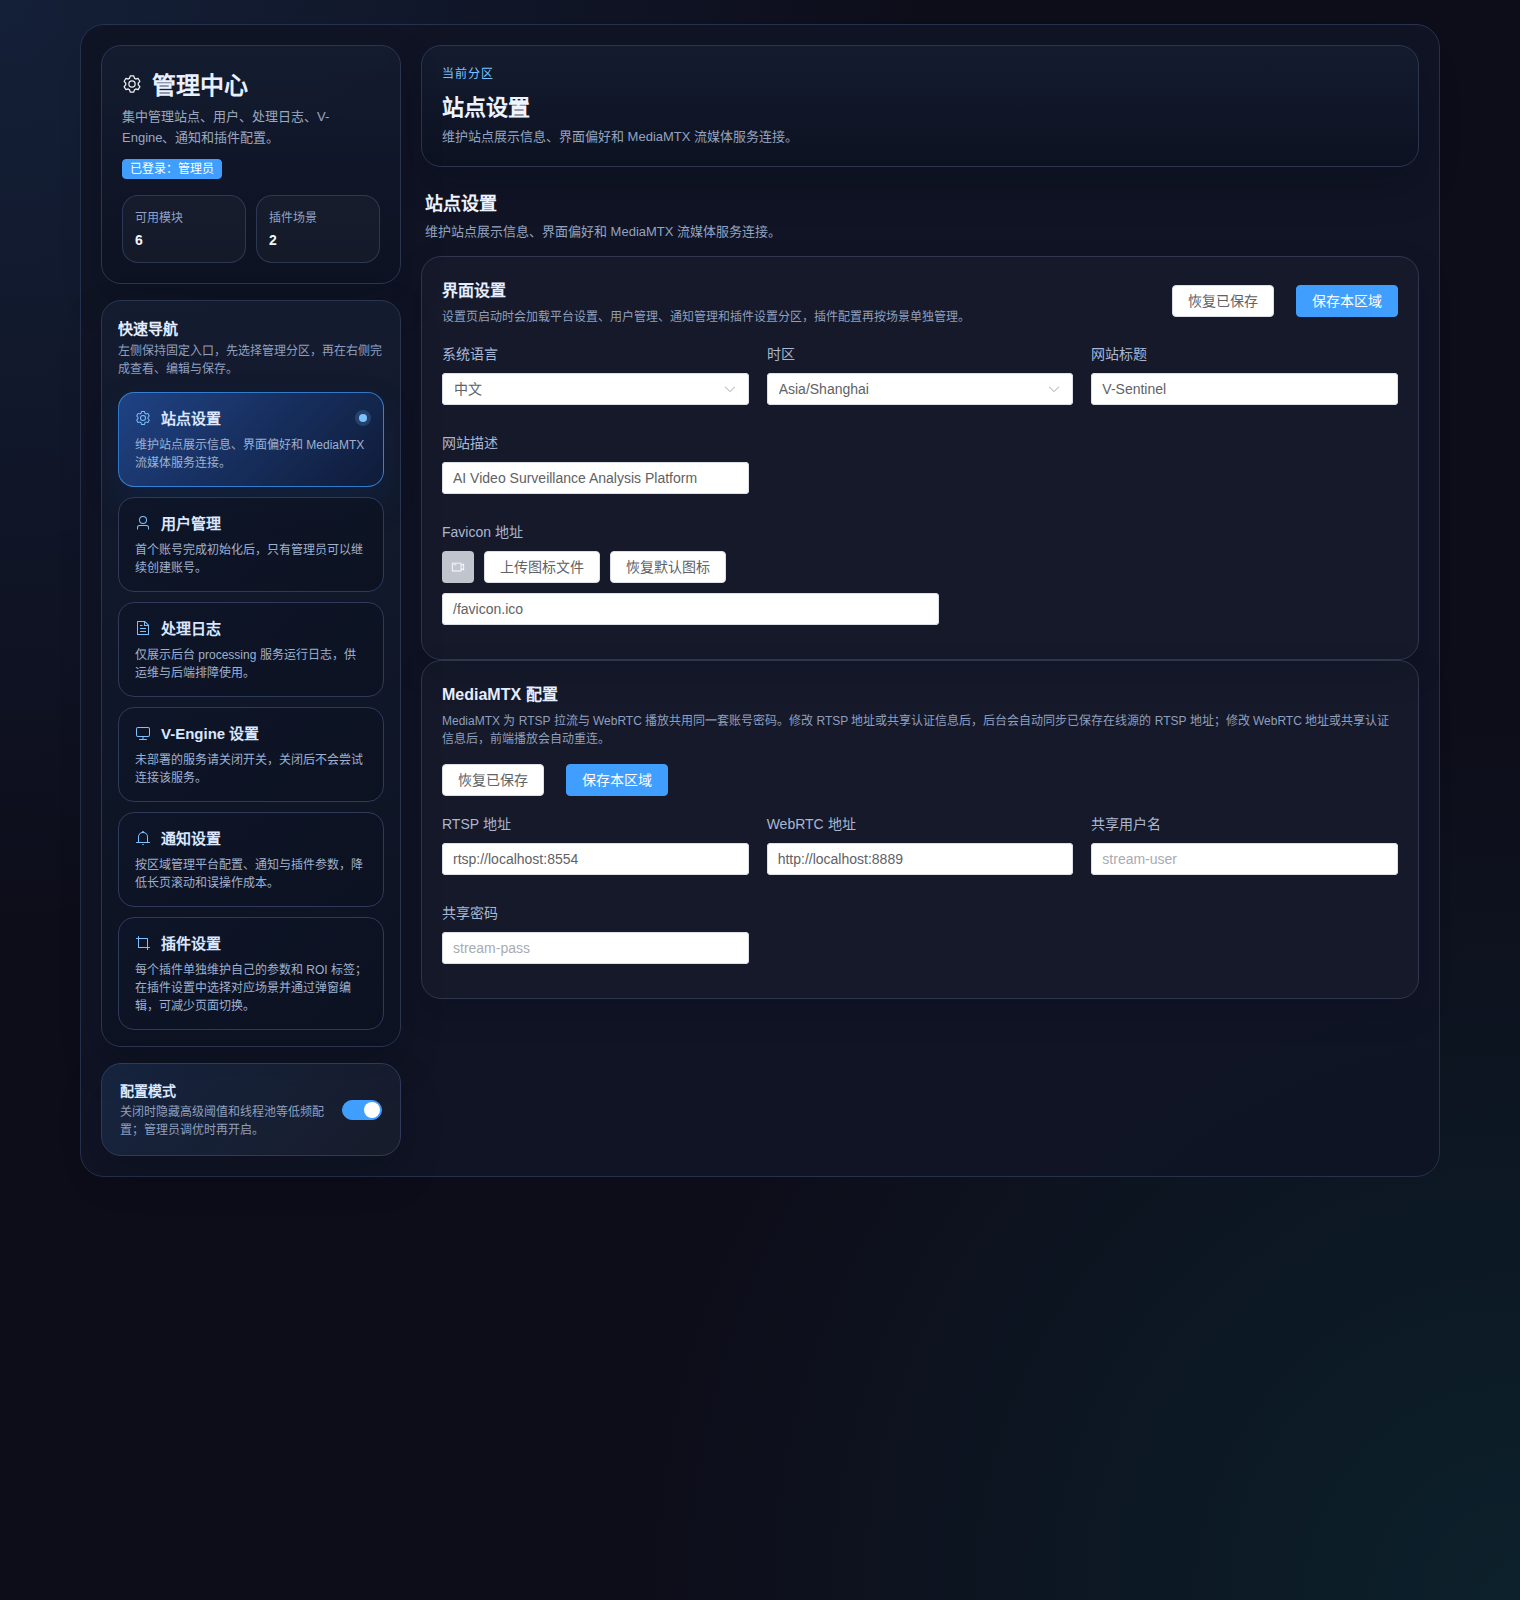
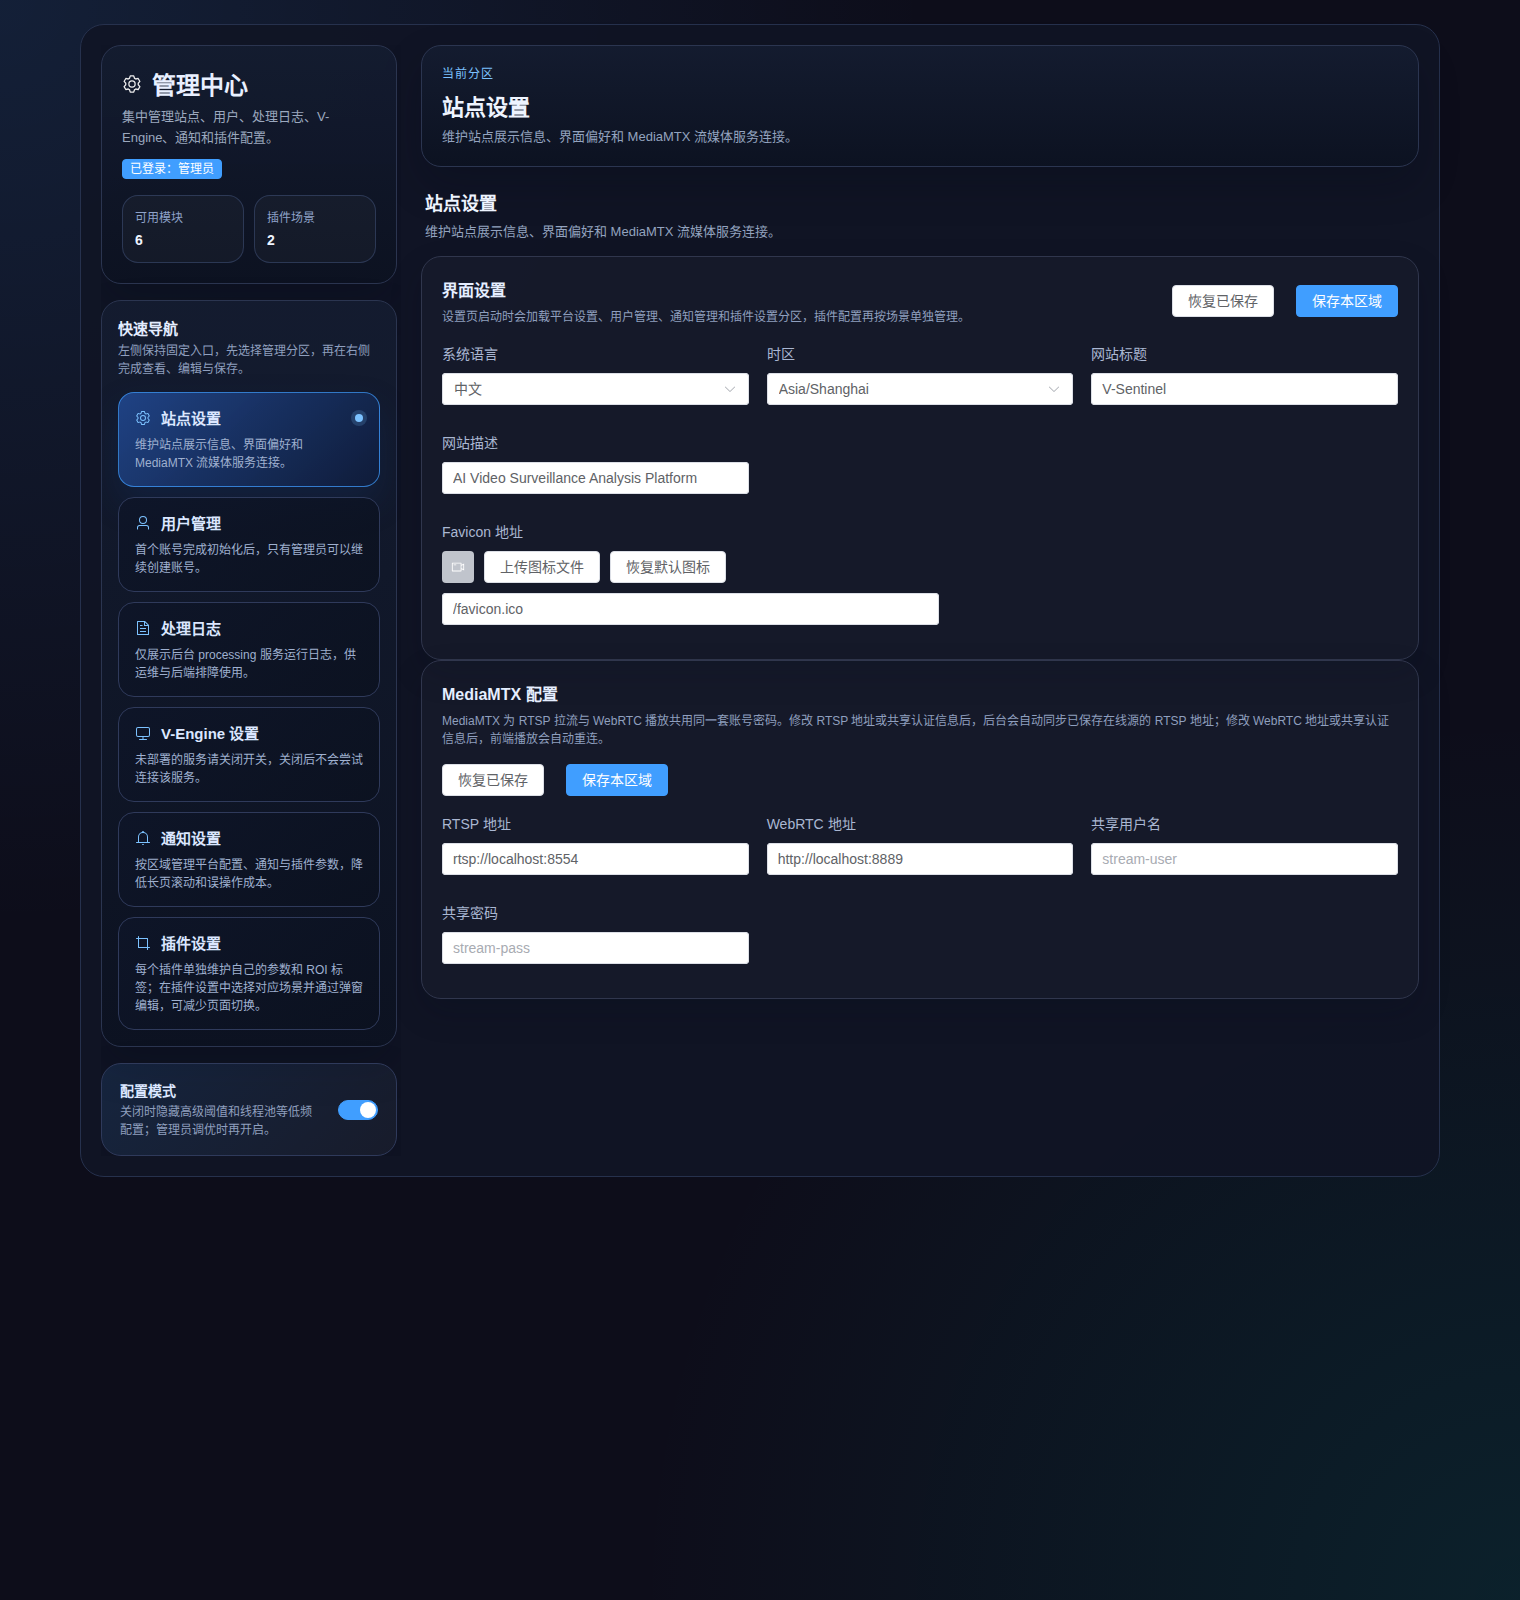
fix: improve settings sidebar accessibility
Agent-Logs-Url: https://github.com/doubletry/V-Sentinel-Smoke/sessions/af09a2fa-05aa-4dde-a095-39d4521293e3

diff --git a/frontend/src/views/Settings.vue b/frontend/src/views/Settings.vue
@@ -1049,7 +1049,7 @@ const settingsNavItems = computed(() => {
   return items
 })
 const currentSettingsNavItem = computed(() => (
-  settingsNavItems.value.find((item) => item.key === currentSettingsPage.value) || settingsNavItems.value[0] || null
+  settingsNavItems.value.find((item) => item.key === currentSettingsPage.value) || null
 ))
 const managementOverviewCards = computed(() => ([
   {
@@ -1478,6 +1478,9 @@ onMounted(async () => {
   gap: 16px;
   position: sticky;
   top: 0;
+  max-height: calc(100vh - 24px);
+  overflow-y: auto;
+  padding-right: 4px;
 }
 
 .settings-main {
@@ -1739,6 +1742,11 @@ onMounted(async () => {
 
 .settings-top-tabs :deep(.el-tabs__active-bar) {
   display: none;
+}
+
+.settings-top-tabs :deep(.el-tabs__item:focus-visible) {
+  outline: 2px solid rgba(124, 194, 255, 0.6);
+  outline-offset: 2px;
 }
 
 .settings-form-grid {
@@ -2008,6 +2016,9 @@ onMounted(async () => {
 
   .settings-sidebar {
     position: static;
+    max-height: none;
+    overflow: visible;
+    padding-right: 0;
   }
 
   .settings-overview-stats {
